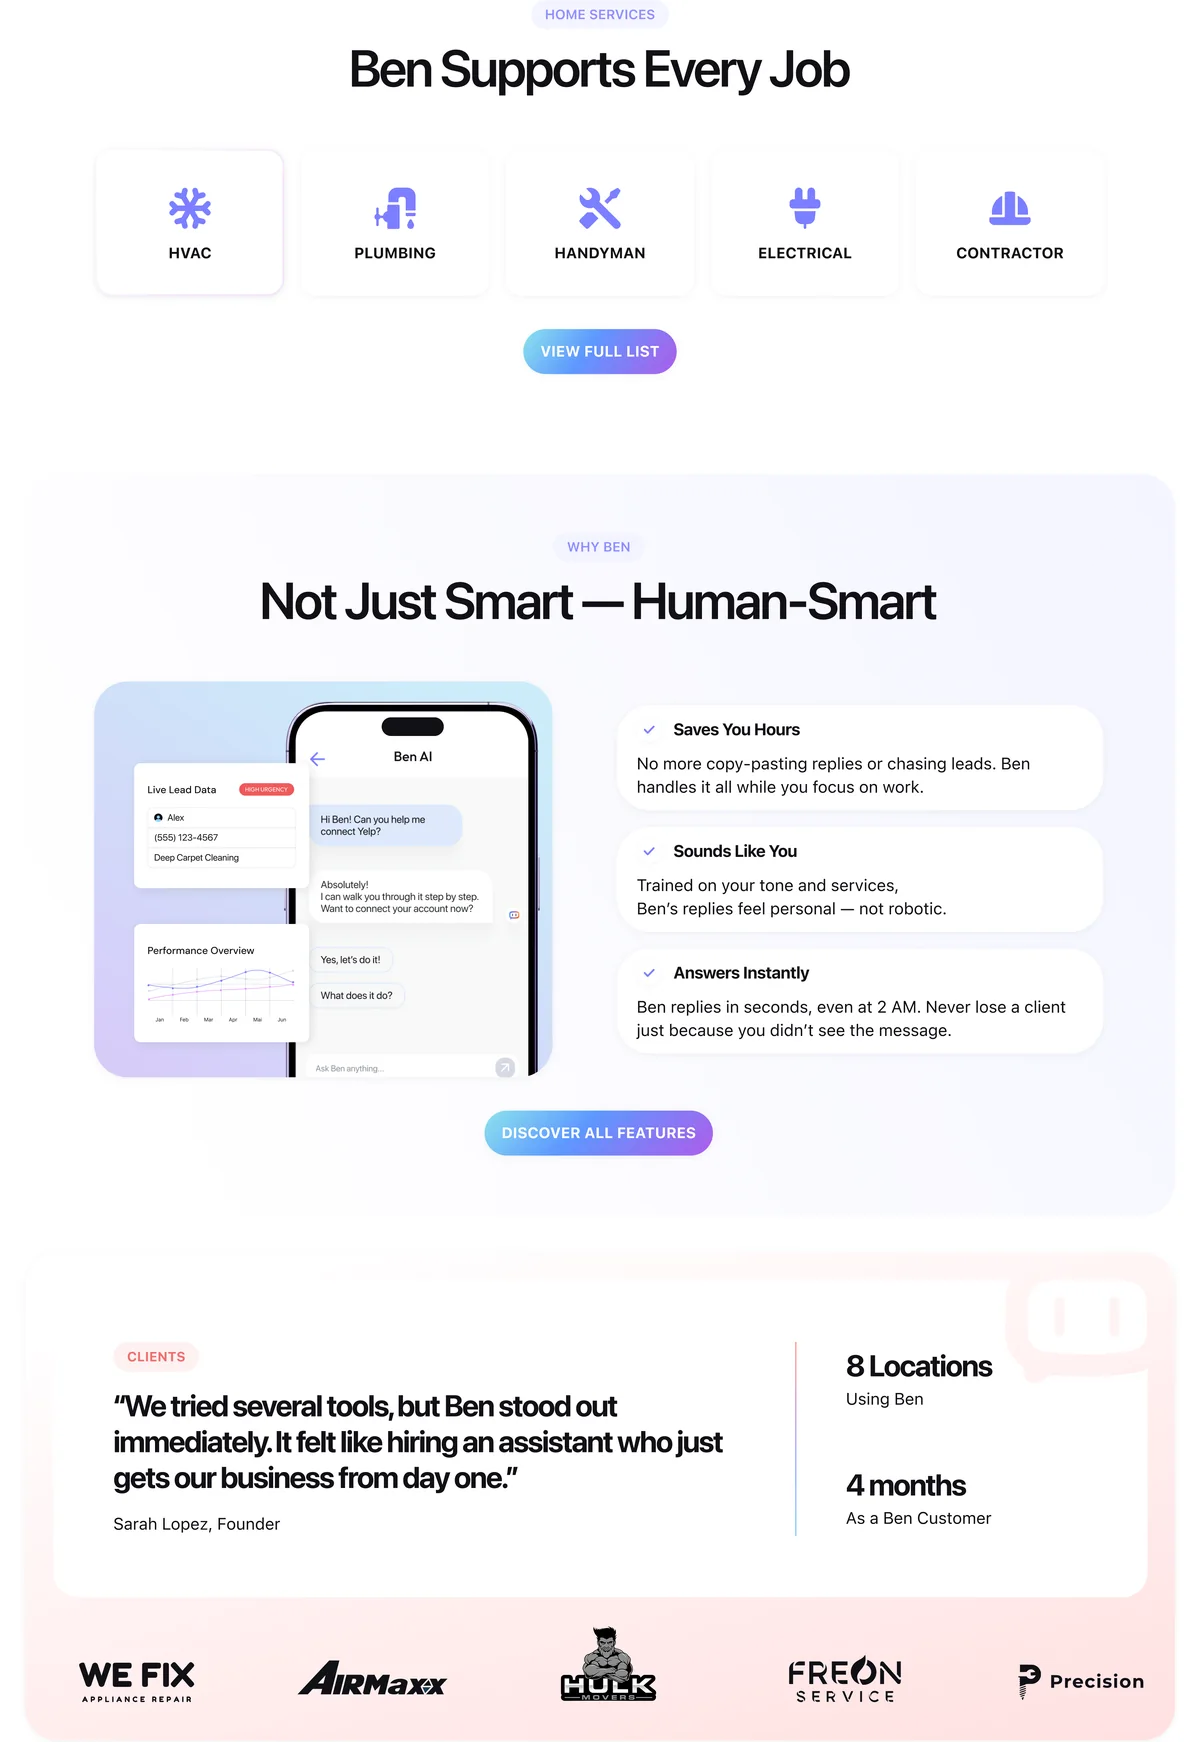
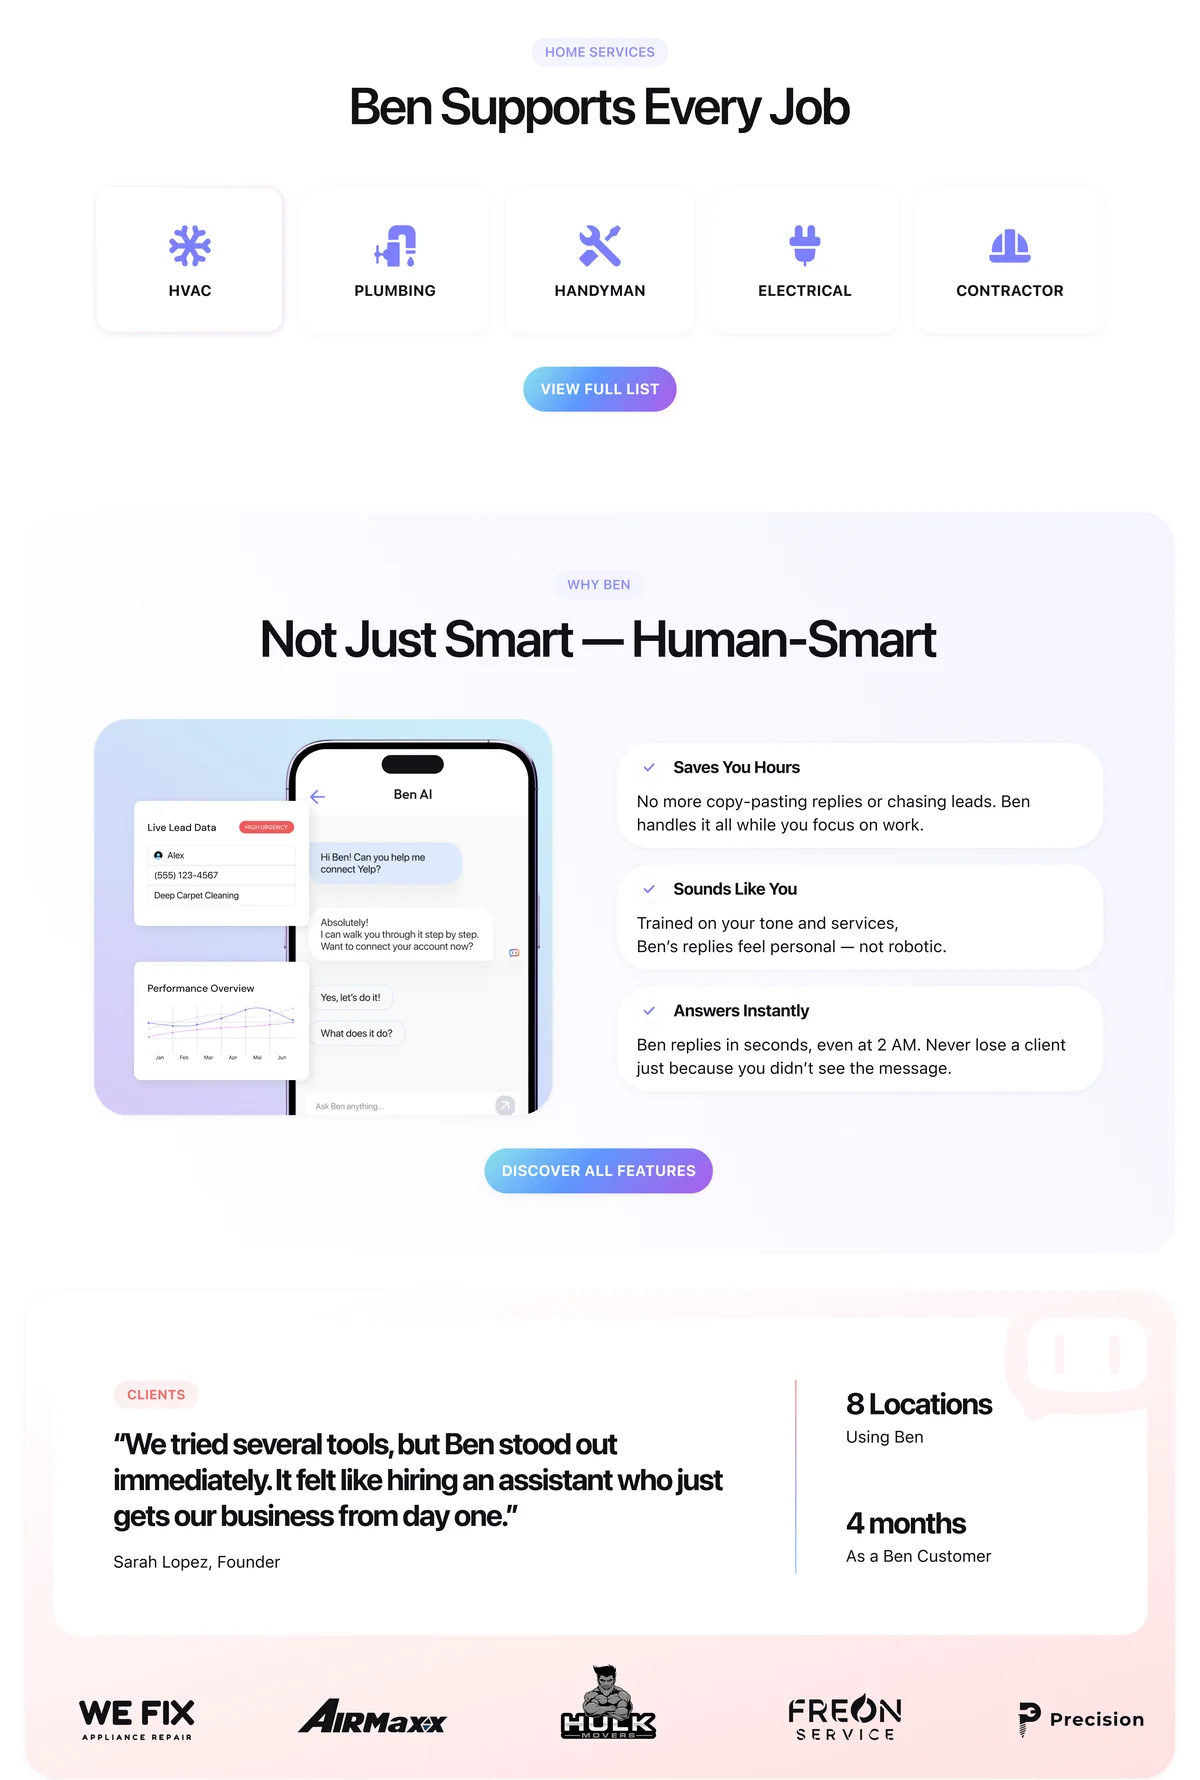
Ben AI: second website screen flush left and offset right, rounded flush corners
Claude-Session: https://claude.ai/code/session_01UyFrCnXTmbWJrWvnmSMrxq

diff --git a/src/data/cases.ts b/src/data/cases.ts
@@ -6,7 +6,7 @@ export type Visual =
   | { layout: 'single'; items: Ph[] }          // one big image
   | { layout: 'stack'; items: Ph[] }           // two small on top, one wide below
   | { layout: 'row'; items: Ph[] };            // three phones in a row
-export interface ShowScreen { id: string; nav: string; ch?: string; kind: 'soon' | 'intro' | 'full' | 'slide' | 'v2a' | 'v3s' | 'v2s' | 'v3h' | 'v3l' | 'v4d' | 'v3c' | 'stack' | 'outro'; tone: string; title?: string; lede?: string; link?: { label: string; href: string }; twin?: string[]; pages?: boolean; cut?: number; fit?: boolean; fill?: boolean; flush?: boolean; asp?: number; src?: string; alt?: string; cells?: { label?: string; spec?: string; src?: string; alt?: string; pos?: string; fit?: boolean; bg?: string }[]; caption?: string }
+export interface ShowScreen { id: string; nav: string; ch?: string; kind: 'soon' | 'intro' | 'full' | 'slide' | 'v2a' | 'v3s' | 'v2s' | 'v3h' | 'v3l' | 'v4d' | 'v3c' | 'stack' | 'outro'; tone: string; title?: string; lede?: string; link?: { label: string; href: string }; twin?: string[]; pages?: boolean; cut?: number; fit?: boolean; fill?: boolean; flush?: boolean; asp?: number; flushLeft?: boolean; src?: string; alt?: string; cells?: { label?: string; spec?: string; src?: string; alt?: string; pos?: string; fit?: boolean; bg?: string }[]; caption?: string }
 export interface Show { oneLiner: string; meta: { label: string; value: string }[]; about: { text: string; credits: { label: string; value: string }[] }; screens: ShowScreen[]; closing?: { title: string; lede: string }; next?: { slug: string; name: string } }
 export interface Ph { label: string; spec: string; src?: string; srcs?: string[]; combo?: string[]; audit?: { name: string; logo: string; phone: string; cards: { tag: 'Sending' | 'Swap' | 'Risk exposure' | 'Clarity'; text: string }[] }[]; reviews?: { tag: string; text: string; source: 'appstore' | 'reddit' | 'github'; meta: string; from?: string }[]; evid?: { top: { lead: string; source?: string; items: { value: string; scope?: string; text: string }[] }; frames: { ratio?: string; shots: { src: string; name: string; alt: string; logo: string }[]; plan?: { week: string; name: string; line: string; tags: string[]; color: string }[]; finds?: { kind: 'first' | 'deeper'; tag: string; icon: string; text: string }[] }[] }; soft?: boolean; pan?: { src: string; wide?: boolean; alt?: string; marks?: { n: number; x: number; y: number }[] }[]; scroll?: boolean; sys?: boolean; cost?: { on: number; total: number; value: string; text: string; ring: number; ringText: string; source: string }; stages?: { items: { value: string; icon?: string; stage: string; metric: string; what: string; how: string }[]; note?: string }; hyps?: { saw: string; q: string; a: string; icon?: string }[]; stats?: { lead: string; items: { value: string; text: string; label?: string }[]; source?: string; nopct?: boolean }; metrics?: { title: string; items: { value: string; label: string; note: string; wide?: boolean; pair?: { before: number; after: number; max: number; unit: string } }[] }[]; scope?: { name: string; why: string; d: 'keep' | 'limit' | 'cut' }[]; compare?: { cols: string[]; rows: { label: string; a: boolean | 'part'; b: boolean | 'part' }[]; note?: string }; zoom?: boolean; pad?: boolean; bleed?: boolean; peek?: boolean; twin?: { src: string }[]; slide?: boolean; pn?: string; dm?: boolean; wipph?: boolean; big?: boolean; noconf?: boolean; cut?: string; chain?: { icon: string; label: string }[]; flat?: boolean; trio?: { src?: string; label?: string; icon?: string; facts?: { caption: string; items: { value: string; label: string }[] } }[]; alt?: string; flip?: boolean; matrix?: { title: string; cols: { name: string; logo: string }[]; groups: { label: string; rows: { label: string; v: boolean[] }[] }[] }; voices?: { num: string; label: string; quote: string; who: string; sub?: string; tag: string; tagIcon: string }[]; finds?: { icon: string; cat: string; level: 'catastrophe' | 'major' | 'minor'; score: string; title: string; text: string; src: string; pos?: string; alt?: string }[] }   // srcs = transparent device renders composed on the tint
 
@@ -838,7 +838,7 @@ export const cases: CaseData[] = [
           { src: '/images/ben-site-livechat.webp', bg: '#7D7FFF', alt: 'Ben AI live chat page: Turn Visitors Into Bookings' },
           { src: '/images/ben-site-yelpads.webp', bg: '#EF5A5A', alt: 'Ben AI Yelp Ads page: Smarter Yelp Ads' }] },
         { id: 'web-a', ch: 'Website', nav: 'Website', kind: 'intro', tone: '#92303C', pages: true, flush: true, asp: 1.71, twin: ['/images/ben-web-1.webp', '/images/ben-web-2.webp'], alt: 'The Ben AI website, first part: Yelp leads, Yelp Ads management and Thumbtack sections on the left, and the website live chat page and industry recognition on the right' },
-        { id: 'web-b', ch: 'Website', nav: 'Website', kind: 'intro', tone: '#0B4F82', pages: true, flush: true, asp: 1.45, twin: ['/images/ben-web-3.webp', '/images/ben-web-4.webp'], alt: 'The Ben AI website, second part: supported jobs, why Ben and clients on the left, and pricing, the closing call to action and results on the right' },
+        { id: 'web-b', ch: 'Website', nav: 'Website', kind: 'intro', tone: '#0B4F82', pages: true, flush: true, flushLeft: true, asp: 1.48, twin: ['/images/ben-web-3.webp', '/images/ben-web-4.webp'], alt: 'The Ben AI website, second part: supported jobs, why Ben and clients on the left, and pricing, the closing call to action and results on the right' },
         { id: 'award', ch: 'Trust', nav: 'Trust', kind: 'v2a', tone: '#1C1630', title: 'Recognition marked a new chapter', lede: 'Ben AI won Yelp’s Best in Innovation Award in 2025. The client came back to Danart.', cells: [
           { src: '/images/ben-award.webp', fit: true, bg: '#0b0b0b', alt: 'The Yelp Advertising Partner Awards trophy: Best in Innovation 2025' },
           { src: '/images/ben-c-recognition.webp', fit: true, bg: '#46478A', alt: 'Ben AI section: We Received Industry Recognition' }] },
